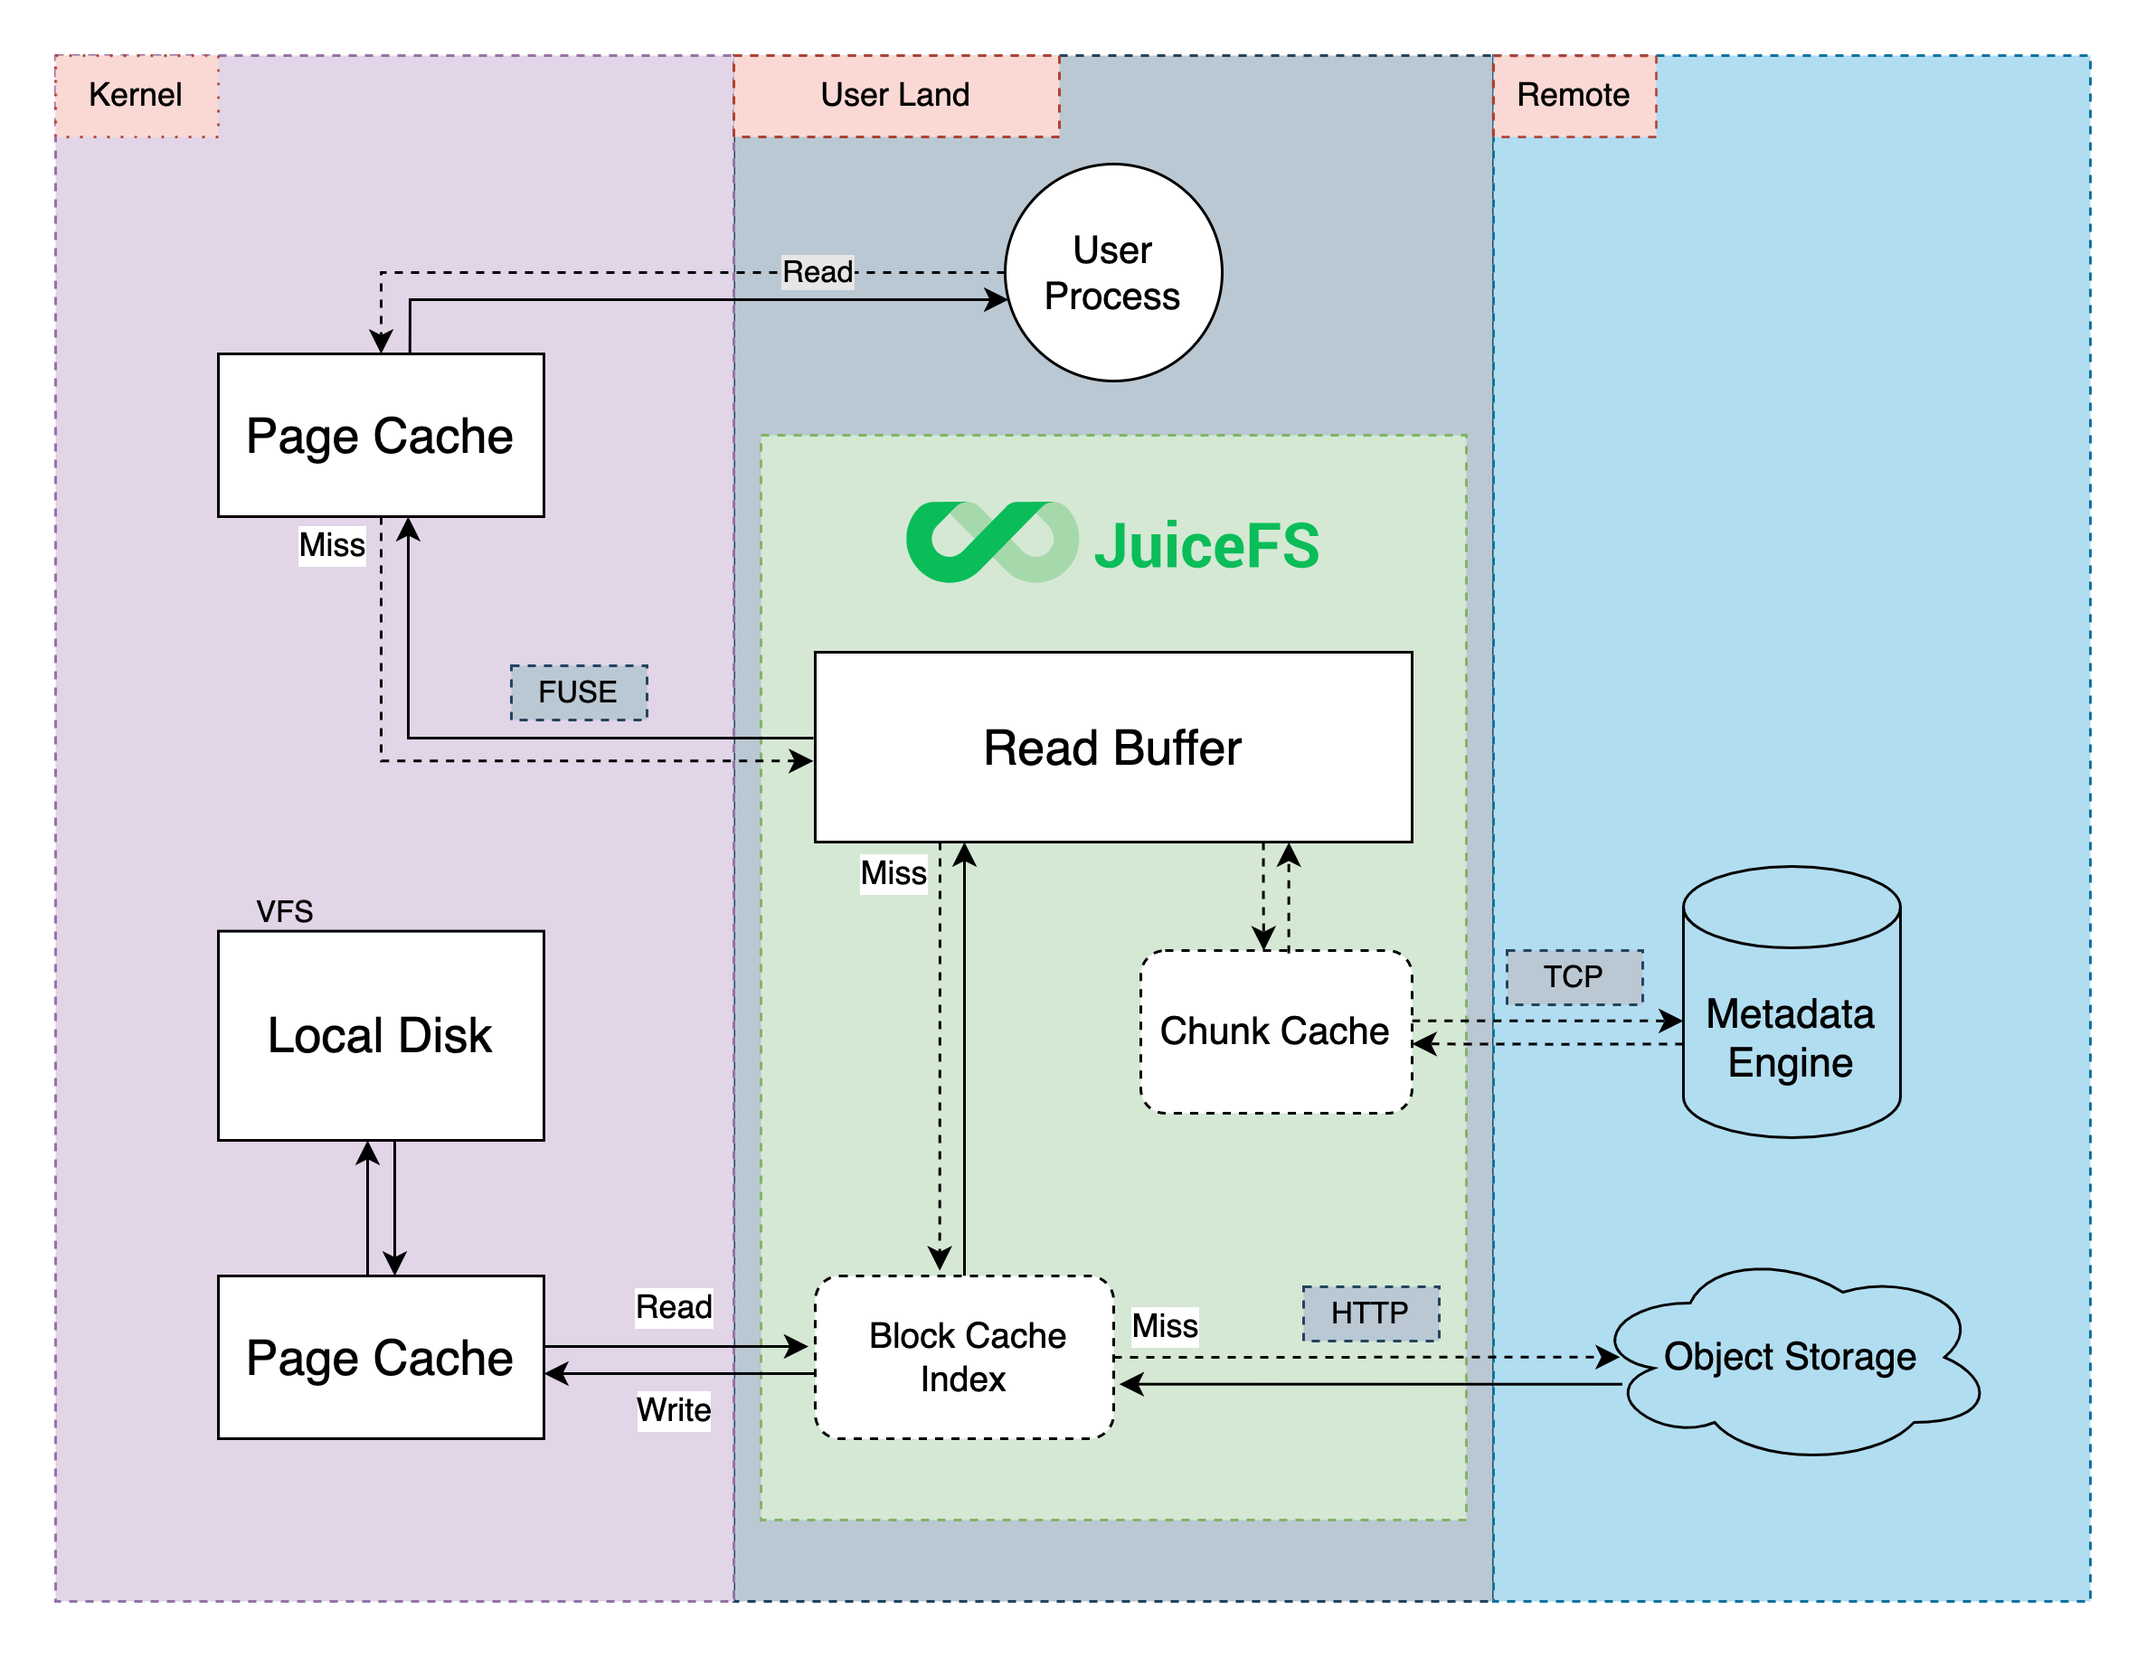
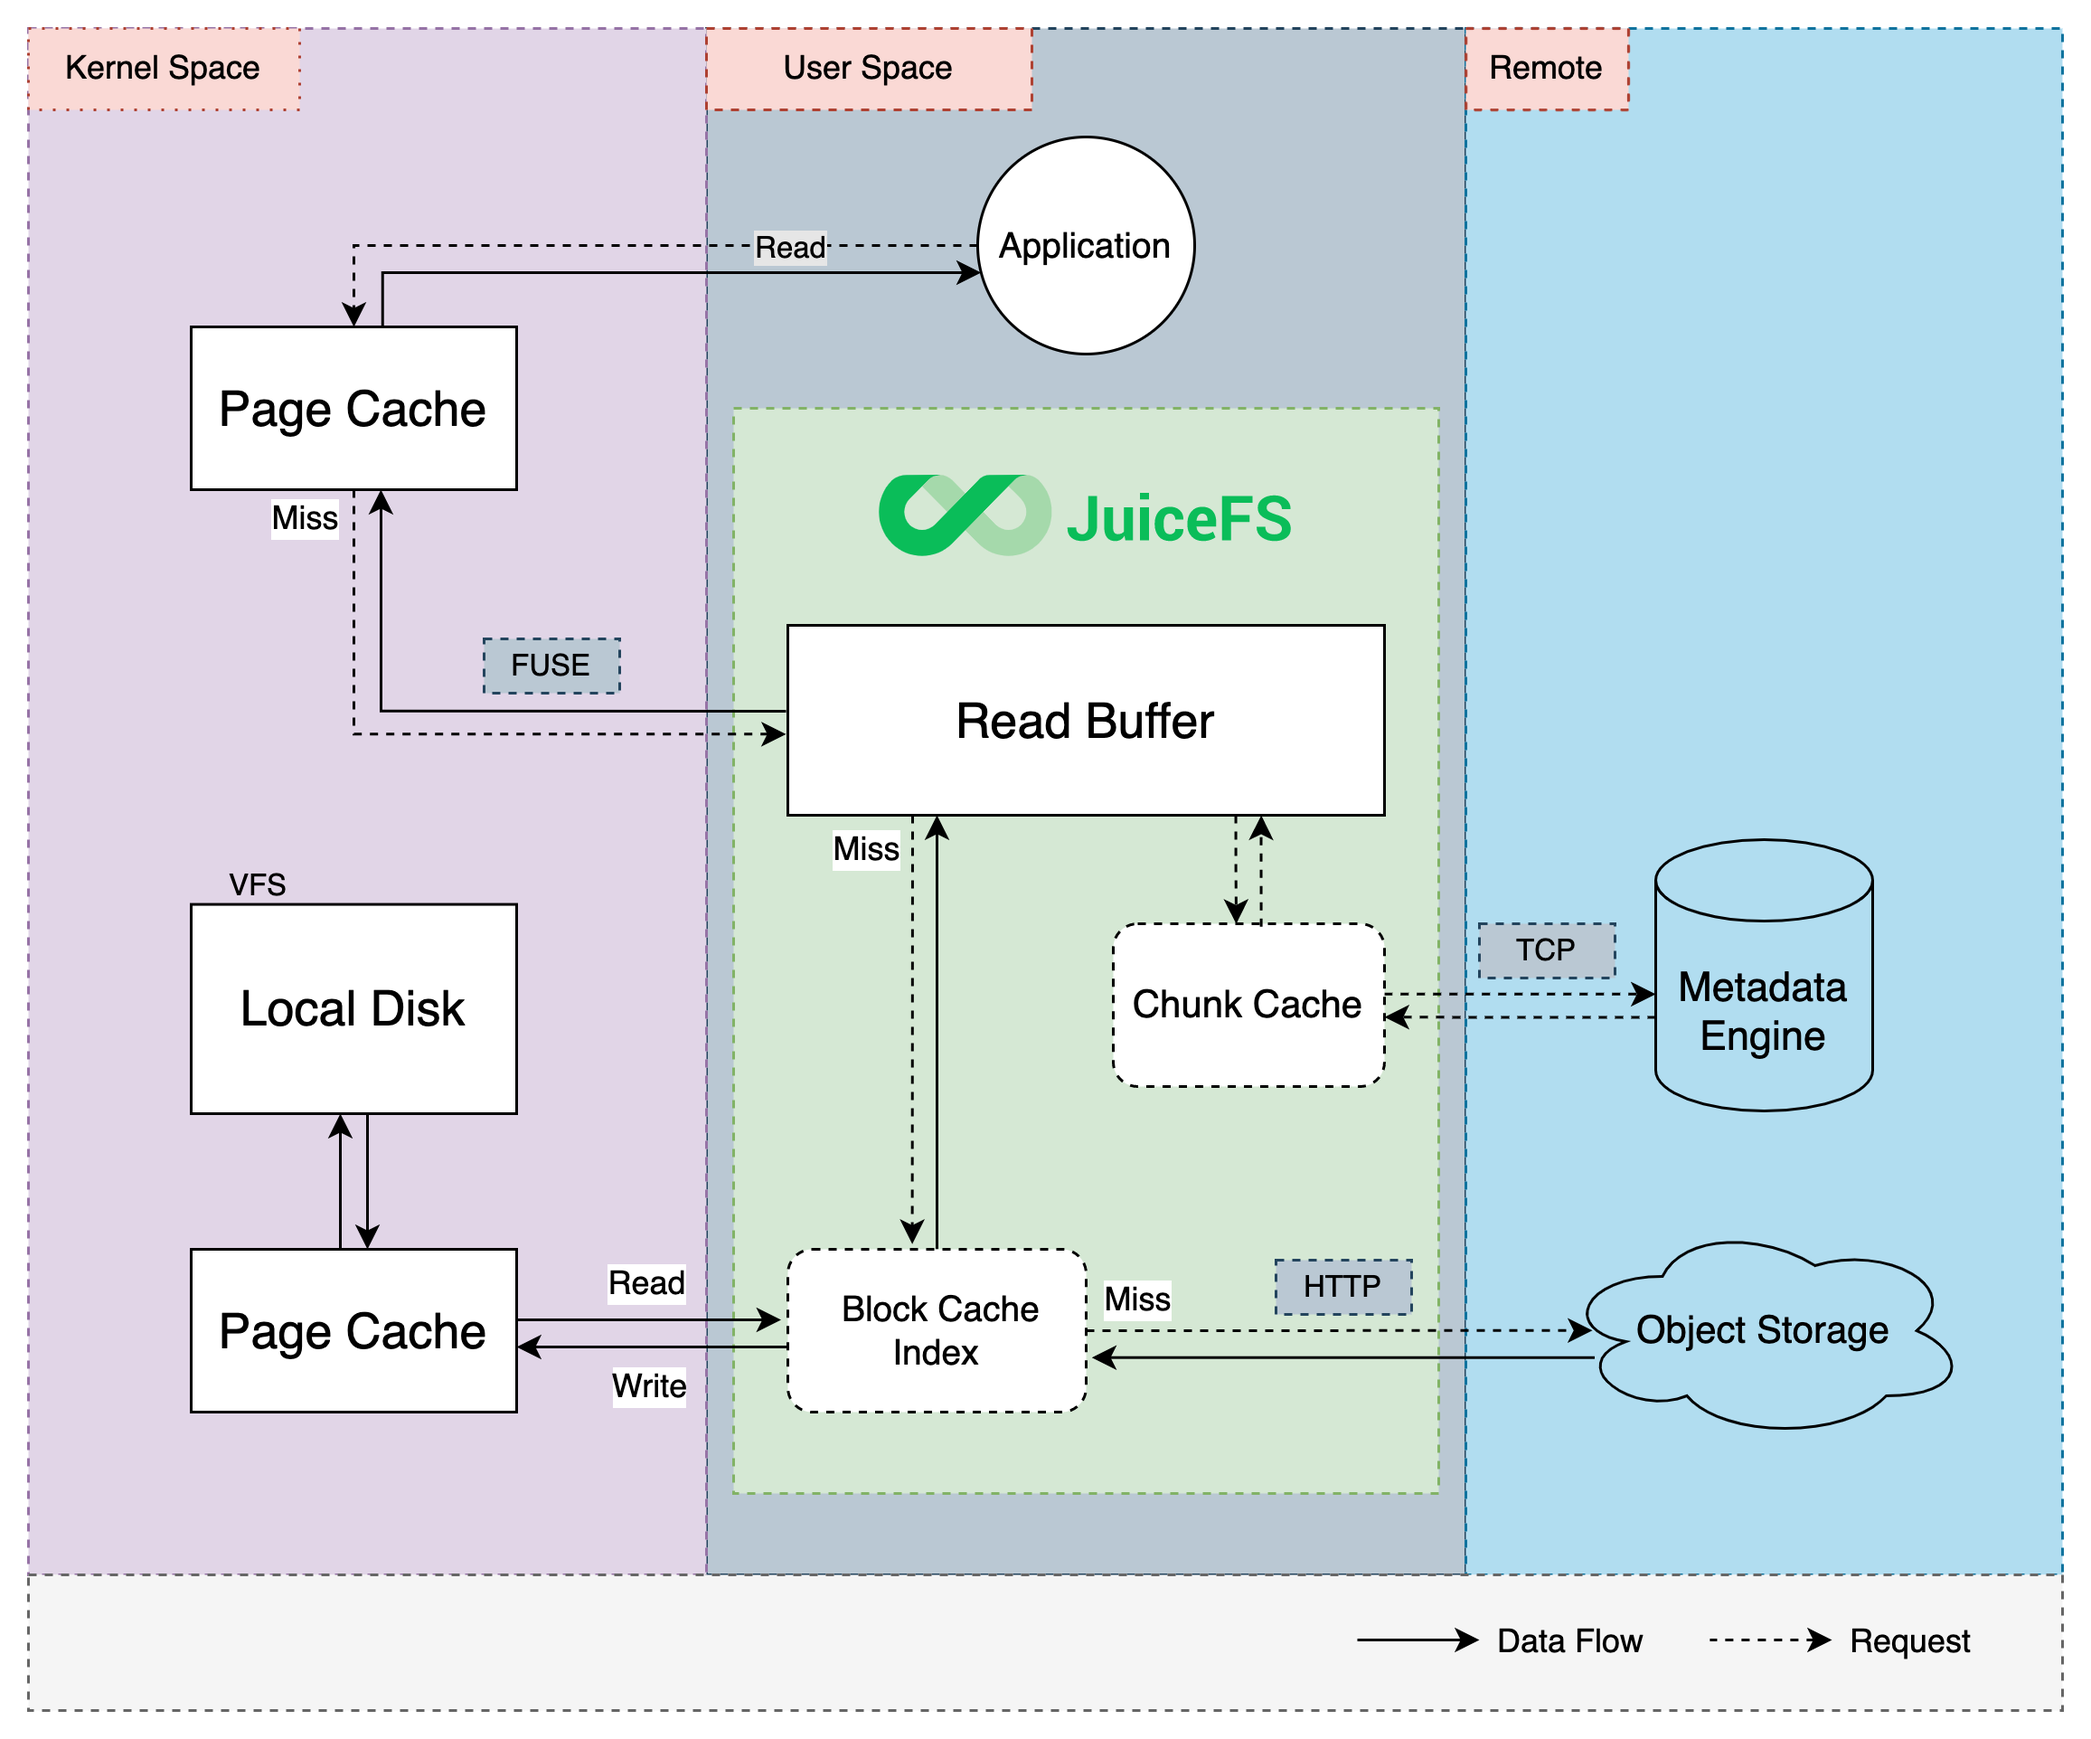
update

diff --git a/docs/en/administration/cache_management.md b/docs/en/administration/cache_management.md
@@ -9,7 +9,7 @@ For a file system driven by a combination of object storage and database, the ca
 
 ## JuiceFS Read Cache mechanism
 
-When reading files in JuiceFS, there are multiple levels of caches to provide better performance for frequently accessed data. Read requests will try the in-memory page cache, the pre-read buffer of the JuiceFS process, and the local disk cache in turn, and will read from the object storage only when the corresponding data is not found in the cache, and will write to all levels of caches asynchronously to ensure the performance of the next access.
+When reading files in JuiceFS, there are multiple levels of caches to provide better performance for frequently accessed data. Read requests will try the kernel page cache, the pre-read buffer of the JuiceFS process, and the local disk cache in turn, and will read from the object storage only when the corresponding data is not found in the cache, and will write to all levels of caches asynchronously to ensure the performance of the next access.
 
 ![](../images/juicefs-cache.png)
 

diff --git a/docs/zh_cn/administration/cache_management.md b/docs/zh_cn/administration/cache_management.md
@@ -9,7 +9,7 @@ slug: /cache_management
 
 ## JuiceFS 的读缓存机制
 
-当访问 JuiceFS 中的文件时，会有多级缓存给经常访问的数据提供更好地性能，读请求会依次尝试内存分页缓存、JuiceFS进程的预读缓冲区、本地磁盘缓存，当缓存中没找到对应数据时才会从对象存储读取，并且会异步写入各级缓存保证下一次访问的性能。
+当访问 JuiceFS 中的文件时，会有多级缓存给经常访问的数据提供更好地性能，读请求会依次尝试内核分页缓存、JuiceFS进程的预读缓冲区、本地磁盘缓存，当缓存中没找到对应数据时才会从对象存储读取，并且会异步写入各级缓存保证下一次访问的性能。
 
 ![](../images/juicefs-cache.png)
 
